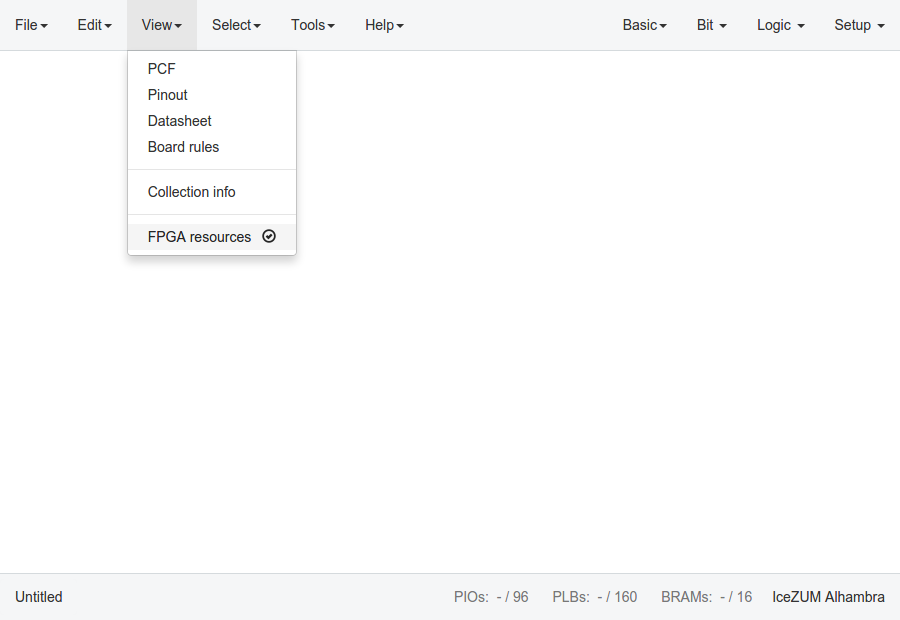
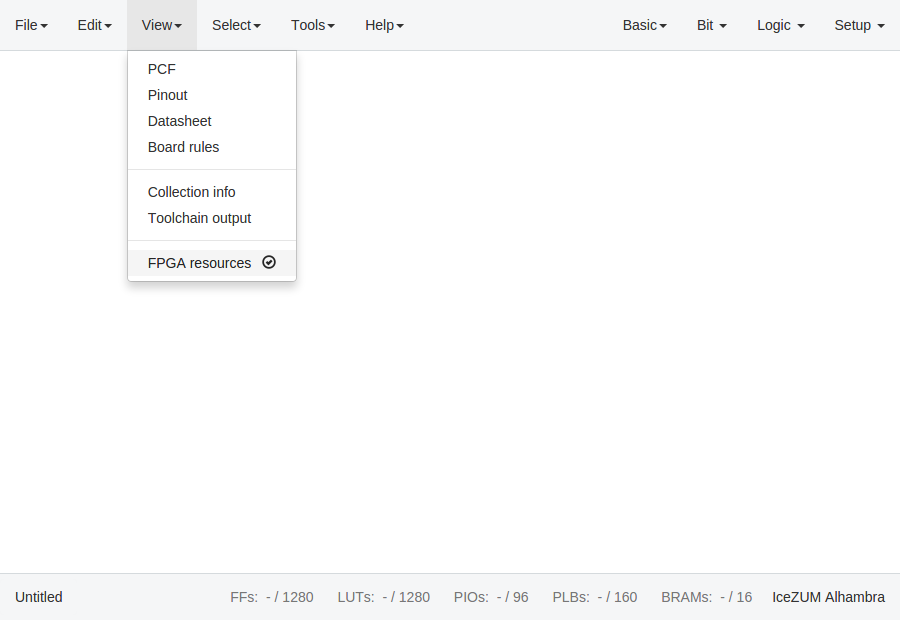
Update docs with the latest changes

diff --git a/docs/source/userguide.rst b/docs/source/userguide.rst
@@ -84,7 +84,7 @@ More information in the `Board rules section <./rules.html>`_.
 
 **External collections**
 
-Set the external collections path in your system. This absolute route should contain Icestudio collections that will be loaded as external collections.
+Set the external collections path in your system. This absolute route should contain Icestudio collections (directories or symbolic links to directories) that will be loaded as external collections.
 
 **Remote hostname**
 
@@ -109,21 +109,23 @@ Contains all the information about the project:
 View
 ````
 
-+-----------------+---------------------------------------------+
-|   Action        |             Description                     |
-+=================+=============================================+
-|     PCF         |       Show the board PCF file               |
-+-----------------+---------------------------------------------+
-|    Pinout       |      Show the board SVG pinout              |
-+-----------------+---------------------------------------------+
-|  Datasheet      | Open a web browser with the board datasheet |
-+-----------------+---------------------------------------------+
-| Board rules     |         Show the current board rules        |
-+-----------------+---------------------------------------------+
-| Collection info |   Show the current collection README file   |
-+-----------------+---------------------------------------------+
-| FPGA resources  |     Show / Hide the used FPGA resources     |
-+-----------------+---------------------------------------------+
++-----------------+----------------------------------------------+
+|   Action        |             Description                      |
++=================+==============================================+
+|     PCF         |       Show the board PCF file                |
++-----------------+----------------------------------------------+
+|    Pinout       |      Show the board SVG pinout               |
++-----------------+----------------------------------------------+
+|  Datasheet      | Open a web browser with the board datasheet  |
++-----------------+----------------------------------------------+
+| Board rules     |         Show the current board rules         |
++-----------------+----------------------------------------------+
+| Collection info |   Show the current collection README file    |
++-----------------+----------------------------------------------+
+|Toolchain output |Show the output of the latest executed command|
++-----------------+----------------------------------------------+
+| FPGA resources  |     Show / Hide the used FPGA resources      |
++-----------------+----------------------------------------------+
 
 
 Select

diff --git a/docs/source/howto.rst b/docs/source/howto.rst
@@ -253,6 +253,14 @@ Upload a bitstream
 
    |
 
+Show the commands output
+------------------------
+
+After executing *Tools > Verify*, *Tools > Build* or *Tools > Upload* you can see the executed command and the output in a new windows opened from **View > Toolchain output**.
+
+.. image:: ../resources/images/howto/toolchain-output.png
+
+|
 
 Create a block
 --------------
